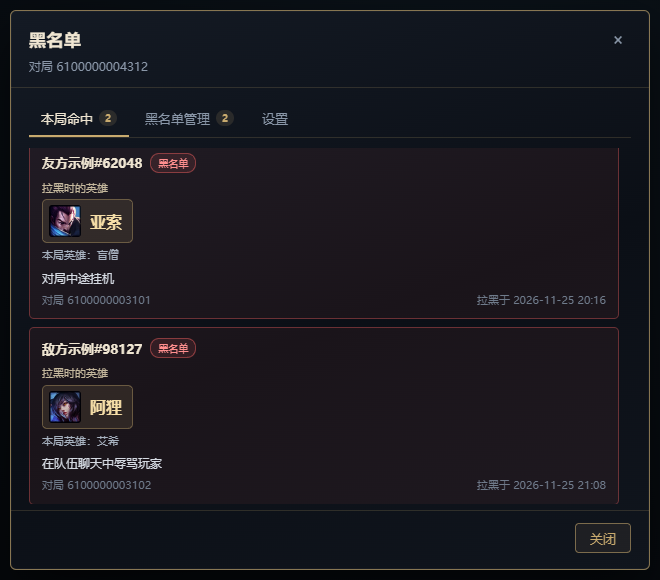
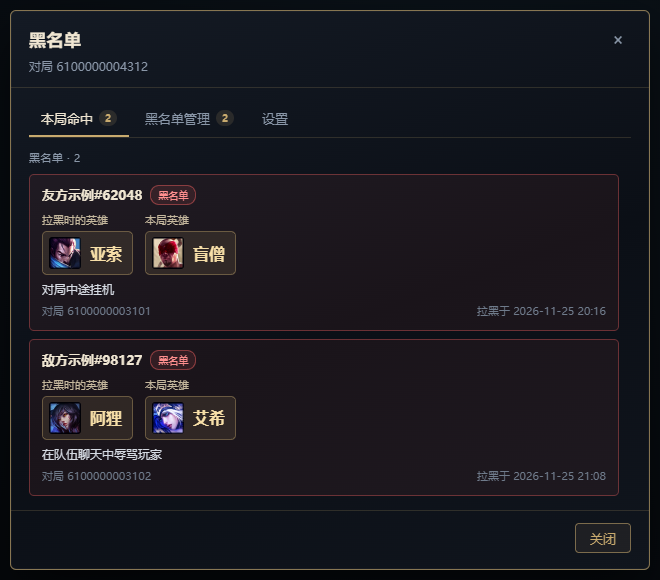
Show current hero beside the previous hero

Changed region(s): [[0.0303, 0.2483, 0.9394, 0.869], [0.7273, 0.8069, 0.9394, 0.869]]

diff --git a/lib/ui/panel.js b/lib/ui/panel.js
@@ -59,12 +59,7 @@ function featuredChampion(label, championId, championName, resolveChampionName) 
 
 function currentChampion(championId, championName, resolveChampionName) {
   if (!championId && !championName) return null
-  return h(
-    'div',
-    { class: 'pgbl-card__current-champion' },
-    '本局英雄：',
-    championText(championId, championName, resolveChampionName),
-  )
+  return featuredChampion('本局英雄', championId, championName, resolveChampionName)
 }
 
 function hitCard(hit, resolveChampionName) {
@@ -86,8 +81,12 @@ function hitCard(hit, resolveChampionName) {
       h('span', { class: 'pgbl-card__name', text: entryDisplayName(entry) }),
       badge('黑名单', 'danger'),
     ),
-    featuredChampion('拉黑时的英雄', entry.championId, entry.championName, resolveChampionName),
-    currentChampion(currentId, currentName, resolveChampionName),
+    h(
+      'div',
+      { class: 'pgbl-card__champions' },
+      featuredChampion('拉黑时的英雄', entry.championId, entry.championName, resolveChampionName),
+      currentChampion(currentId, currentName, resolveChampionName),
+    ),
     h('div', { class: 'pgbl-card__reason', text: entry.reason || '（未填写原因）' }),
     h(
       'div',
@@ -113,8 +112,12 @@ function familiarCard(item, { onBlacklist, resolveChampionName }) {
       badge(teamText(item.lastTeam), item.lastTeam === 'ally' ? 'ally' : 'enemy'),
       item.seenCount > 1 ? badge(`共 ${item.seenCount} 次`) : null,
     ),
-    featuredChampion('上次遇到时的英雄', item.lastChampionId, item.lastChampionName, resolveChampionName),
-    currentChampion(player.championId, item.currentChampionName, resolveChampionName),
+    h(
+      'div',
+      { class: 'pgbl-card__champions' },
+      featuredChampion('上次遇到时的英雄', item.lastChampionId, item.lastChampionName, resolveChampionName),
+      currentChampion(player.championId, item.currentChampionName, resolveChampionName),
+    ),
     item.isTest ? null : h(
       'div',
       { class: 'pgbl-card__actions' },

diff --git a/styles.css b/styles.css
@@ -834,12 +834,26 @@
   white-space: nowrap;
 }
 
+#pgbl-root .pgbl-card__champions {
+  display: flex;
+  flex-wrap: wrap;
+  align-items: flex-start;
+  gap: 8px 12px;
+  margin-top: 8px;
+}
+
 #pgbl-root .pgbl-card__champion-history {
   display: flex;
   flex-direction: column;
   align-items: flex-start;
   gap: 4px;
   margin-top: 8px;
+}
+
+#pgbl-root .pgbl-card__champions > .pgbl-card__champion-history {
+  min-width: 0;
+  max-width: 100%;
+  margin-top: 0;
 }
 
 #pgbl-root .pgbl-card__champion {
@@ -885,15 +899,10 @@
 }
 
 #pgbl-root .pgbl-card__champion-history--empty .pgbl-card__champion-label,
-#pgbl-root .pgbl-card__champion-history--empty .pgbl-card__champion-name,
-#pgbl-root .pgbl-card__current-champion {
+#pgbl-root .pgbl-card__champion-history--empty .pgbl-card__champion-name {
   color: #a9b4c2;
   font-size: 11px;
   font-weight: 400;
-}
-
-#pgbl-root .pgbl-card__current-champion {
-  margin-top: 4px;
 }
 
 #pgbl-root .pgbl-card__reason {
